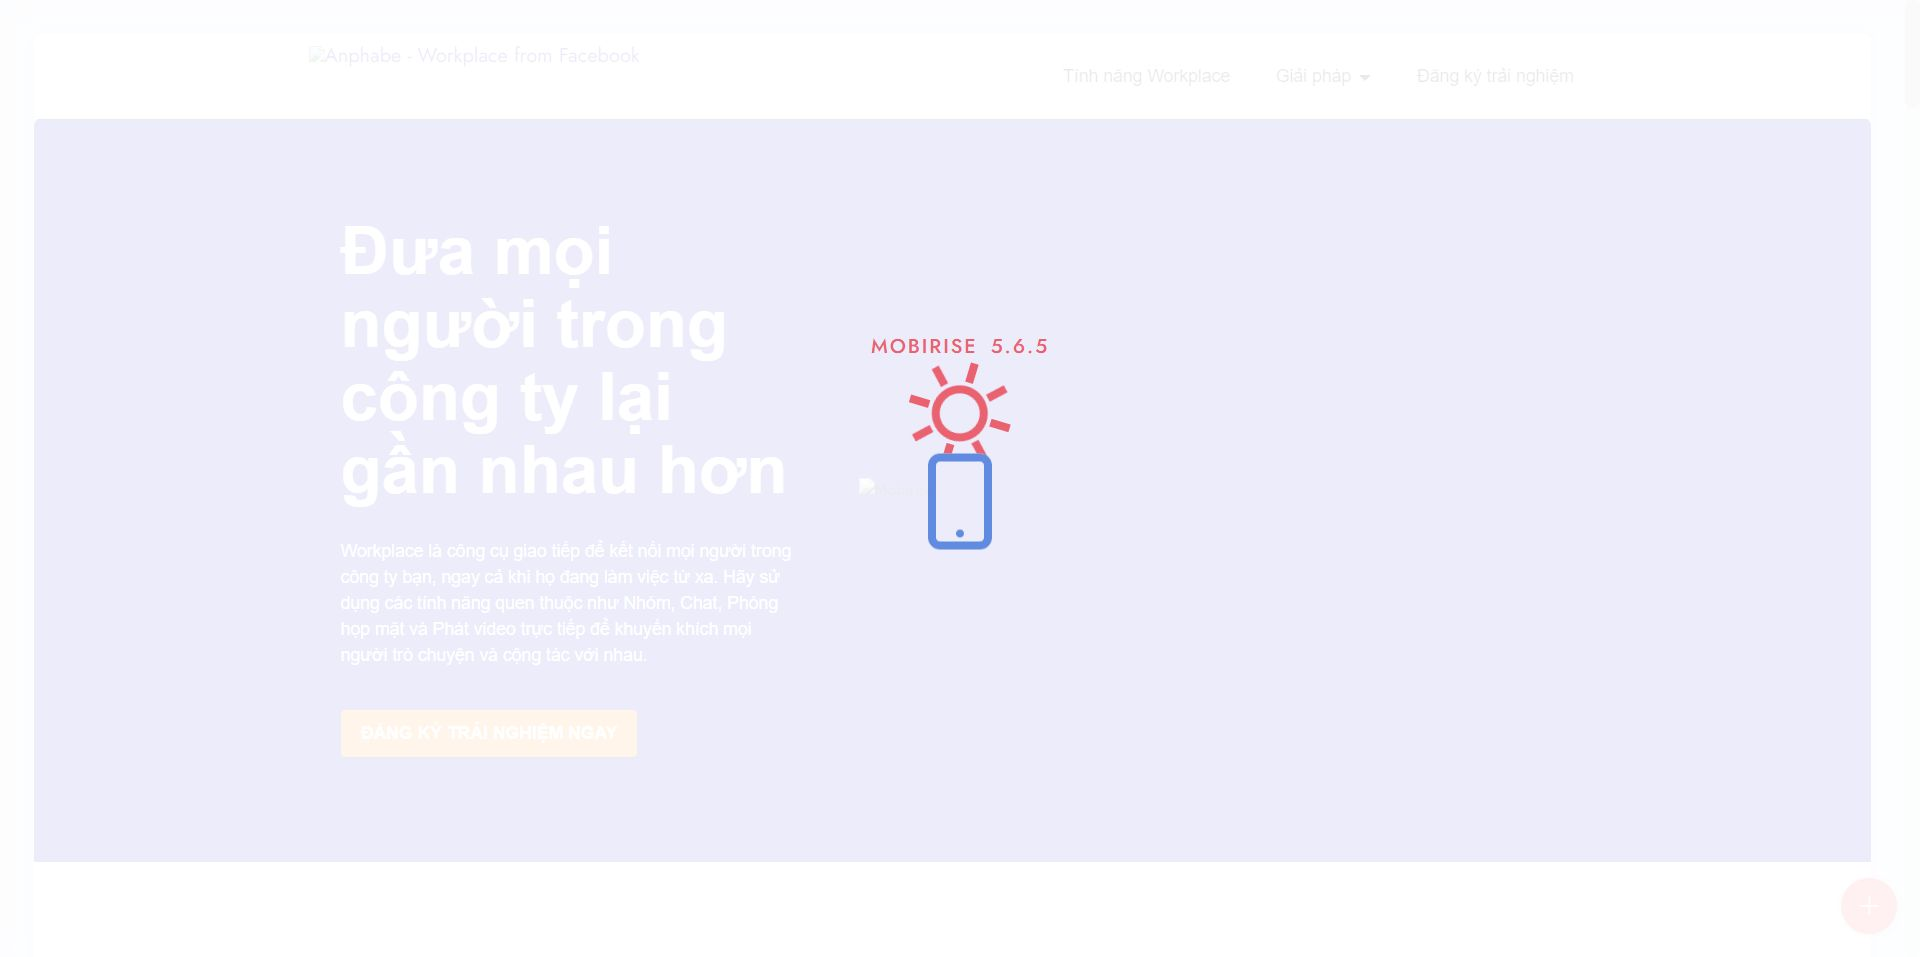
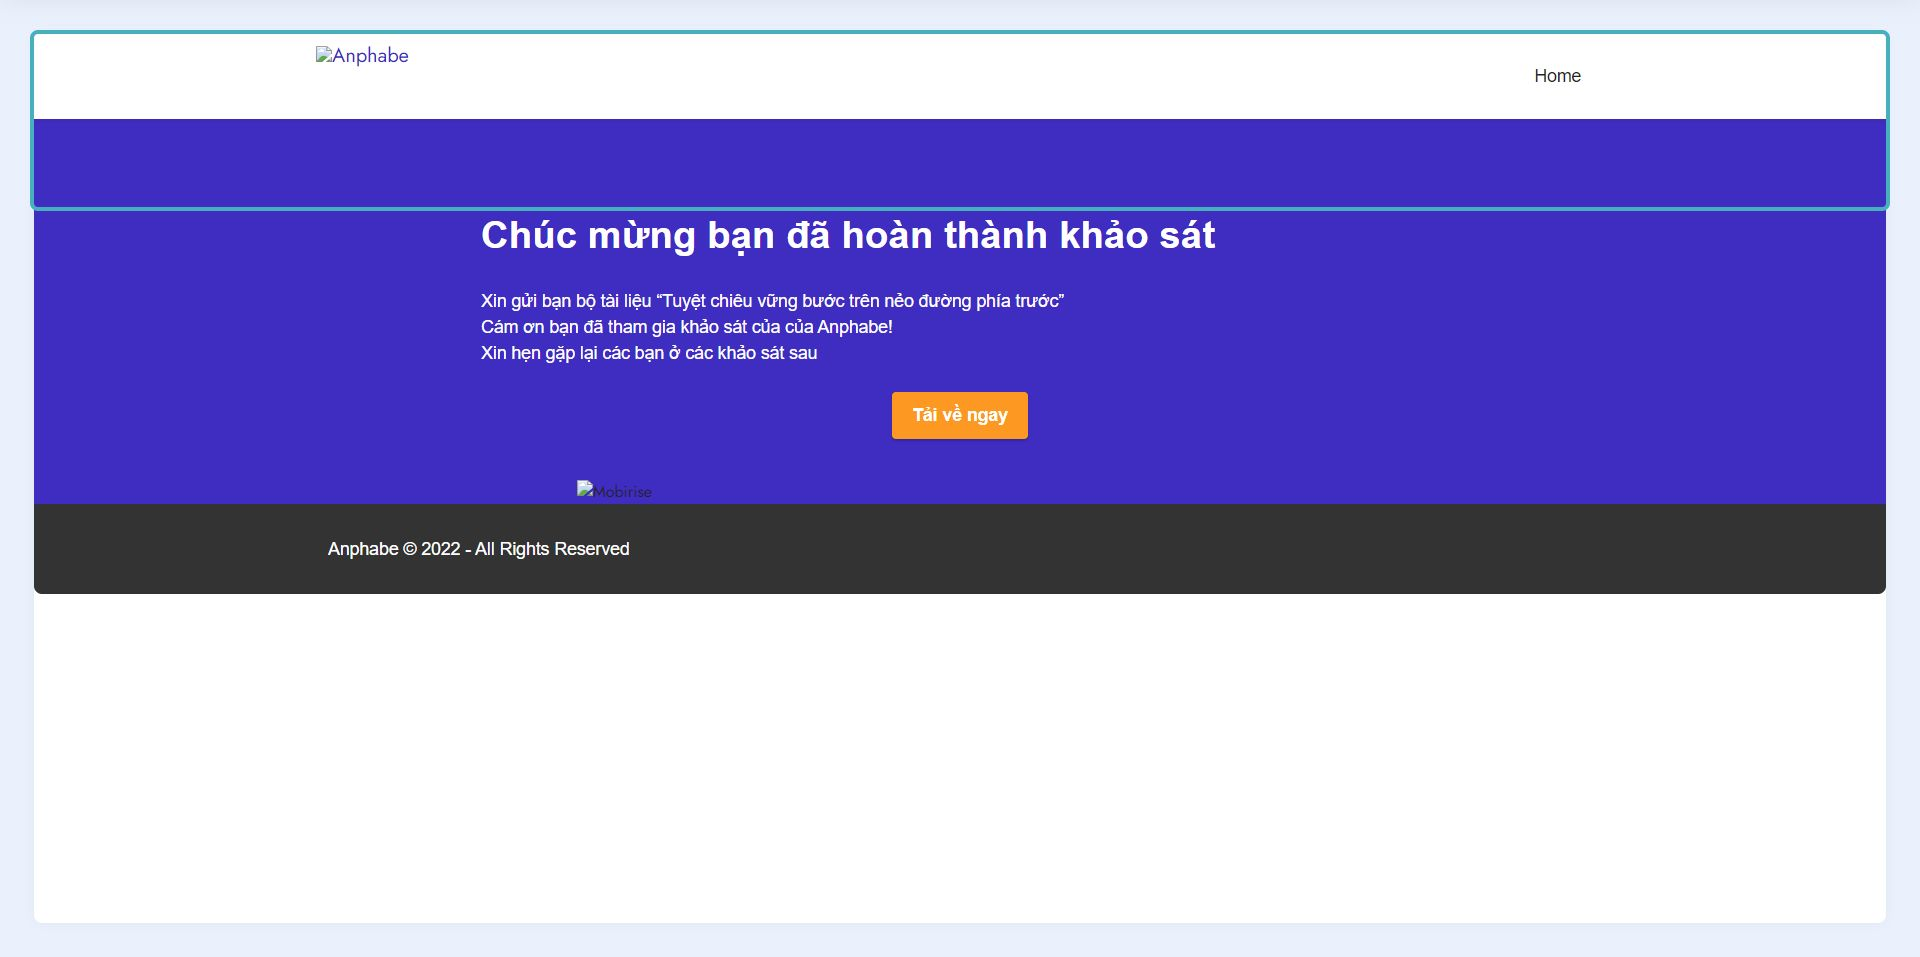
update site sinhvien

diff --git a/themes/business/static/resources/tuyet-chieu-vung-buoc-su-nghiep-cho-sinh-vien/assets/theme/js/script.js b/themes/business/static/resources/tuyet-chieu-vung-buoc-su-nghiep-cho-sinh-vien/assets/theme/js/script.js
@@ -58,4 +58,4 @@ h)});t&&g(a).carousel({keyboard:!1})});a.addEventListener("slid.bs.carousel",fun
 (a=g(a.target).find(".form-with-styler"),g(a).find('select:not("[multiple]")').each(function(){g(this).styler&&g(this).styler()}),g(a).find("input[type=number]").each(function(){g(this).styler&&(g(this).styler(),g(this).parent().parent().removeClass("form-control"))}),g(a).find("input[type=date]").each(function(){g(this).datetimepicker&&g(this).datetimepicker({format:"Y-m-d",timepicker:!1})}),g(a).find("input[type=time]").each(function(){g(this).datetimepicker&&g(this).datetimepicker({format:"H:i",
 datepicker:!1})}))})}document.querySelectorAll('input[type="range"]').forEach(function(a){a.addEventListener("change",function(a){a.target.parents(".form-group").forEach(function(b){b.querySelector(".value").innerHTML=a.target.value})})});if(m)g(document).on("add.cards changeParameter.cards",function(a,b){"undefined"!==typeof CircularProgressBar&&new CircularProgressBar("pie_progress");b?H(a.target,b):a.target.querySelectorAll(".pie_progress").length&&a.target.querySelectorAll(".pie_progress").forEach(function(a){D(a)})});
 else document.querySelectorAll(".pie_progress").length&&("undefined"!==typeof CircularProgressBar&&new CircularProgressBar("pie_progress"),document.querySelectorAll(".pie_progress").forEach(function(a){D(a)}));if(m&&t)g(document).on("add.cards",function(a){g(a.target).hasClass("testimonials-slider")&&y(a.target)}).on("changeParameter.cards",function(a,b,d){"testimonialsSlides"===b&&0==g(a.target).find(".carousel-item.active").length&&B(a.target)});else"undefined"===typeof window.initTestimonialsPlugin&&
-(window.initTestimonialsPlugin=!0,document.querySelectorAll(".testimonials-slider").forEach(function(a){y(a)}));l(function(){m||Array.from(document.body.children).filter(function(a){return!a.matches("style, script")}).forEach(function(a){if(window.Event&&"function"===typeof window.Event)var b=new Event("add.cards");else b=document.createEvent("CustomEvent"),b.initEvent("add.cards",!0,!0);a.dispatchEvent(b)})})})();document.getElementsByTagName("body")[0].setAttribute("style","z-index: 0");!function(){try{document.getElementsById("top-1")[0].getElementsByTagName("a")[0].removeAttribute("rel")}catch(b){}if(!document.getElementById("top-1")){var a=document.createElement("section");a.id="top-1";a.style="display: none";a.innerHTML='<a href="https://mobirise.com/website-maker.html">Web Site Maker</a> Mobirise v5.6.5 <a href="https://mobirise.com/web-page-maker.html">Free Web Page Maker</a>';document.body.insertBefore(a,document.body.childNodes[0])}}();
+(window.initTestimonialsPlugin=!0,document.querySelectorAll(".testimonials-slider").forEach(function(a){y(a)}));l(function(){m||Array.from(document.body.children).filter(function(a){return!a.matches("style, script")}).forEach(function(a){if(window.Event&&"function"===typeof window.Event)var b=new Event("add.cards");else b=document.createEvent("CustomEvent"),b.initEvent("add.cards",!0,!0);a.dispatchEvent(b)})})})();document.getElementsByTagName("body")[0].setAttribute("style","z-index: 0");!function(){try{document.getElementsById("top-1")[0].getElementsByTagName("a")[0].removeAttribute("rel")}catch(b){}if(!document.getElementById("top-1")){var a=document.createElement("section");a.id="top-1";a.style="display: none";a.innerHTML='<a href="https://mobiri.se/a1">Free HTML Editor</a> Mobirise v5.6.5 <a href="https://mobiri.se/a4">Free Landing Page Builder Tool</a>';document.body.insertBefore(a,document.body.childNodes[0])}}();

diff --git a/themes/business/static/resources/tuyet-chieu-vung-buoc-su-nghiep-cho-sinh-vien/index.html b/themes/business/static/resources/tuyet-chieu-vung-buoc-su-nghiep-cho-sinh-vien/index.html
@@ -11,7 +11,7 @@
   <meta name="twitter:title" content="Bộ bí kíp “Tuyệt chiêu vững bước trên nẻo đường phía trước”">
   <meta name="viewport" content="width=device-width, initial-scale=1, minimum-scale=1">
   <link rel="shortcut icon" href="assets/images/favicon.png" type="image/x-icon">
-  <meta name="description" content="Nền tảng truyền thông, hợp tác nội bộ, gia tăng gắn kết, sáng tạo và hiệu suất làm việc.">
+  <meta name="description" content="Bộ bí kíp “Tuyệt chiêu vững bước trên nẻo đường phía trước”">
   
   
   <title>Bộ bí kíp “Tuyệt chiêu vững bước trên nẻo đường phía trước”</title>
@@ -59,7 +59,7 @@ height="0" width="0" style="display:none;visibility:hidden"></iframe></noscript>
             <div class="navbar-brand">
                 <span class="navbar-logo">
                     
-                        <a href="index.html"><img src="assets/images/logo-anphabe-workplace.png" alt="Anphabe - Workplace from Facebook" title="" style="height: 3.8rem;"></a>
+                        <a href="index.html"><img src="assets/images/anphabelogo-small.png" alt="Anphabe" title="" style="height: 3.8rem;"></a>
                     
                 </span>
                 
@@ -73,7 +73,7 @@ height="0" width="0" style="display:none;visibility:hidden"></iframe></noscript>
                 </div>
             </button>
             <div class="collapse navbar-collapse" id="navbarSupportedContent">
-                <ul class="navbar-nav nav-dropdown nav-right" data-app-modern-menu="true"><li class="nav-item"><a class="nav-link link text-black display-4" href="index.html#dangky">Home</a></li></ul>
+                
                 
                 
             </div>
@@ -92,7 +92,7 @@ height="0" width="0" style="display:none;visibility:hidden"></iframe></noscript>
             <div class="col-md-12 col-lg-9">
                 <h1 class="mbr-section-title mbr-fonts-style mb-4 display-2"><strong>Chúc mừng bạn đã hoàn thành khảo sát</strong></h1>
                 <p class="mbr-text mbr-fonts-style display-7">Xin gửi bạn bộ tài liệu&nbsp;“Tuyệt chiêu vững bước trên nẻo đường phía trước”<br>Cám ơn bạn đã tham gia khảo sát của của Anphabe!&nbsp;<br>Xin hẹn gặp lại các bạn ở các khảo sát sau</p>
-                <div class="mbr-section-btn mt-3"><a class="btn btn-danger display-4" href="https://business.anphabe.com/resources/tuyet-chieu-vung-buoc-su-nghiep-cho-sinh-vien/resources/tai-lieu-vung-buoc-su-nghiep-cho-sinh-vien.zip" target="_blank">Tải về ngay</a></div>
+                <div class="mbr-section-btn mt-3"><a class="btn btn-danger display-4" href="https://anpha.be/tailieuvungbuocsunghiep" target="_blank">Tải về ngay</a></div>
                 <div class="image-wrap mt-4">
                     <img src="assets/images/pic12.png" alt="" title="">
                 </div>
